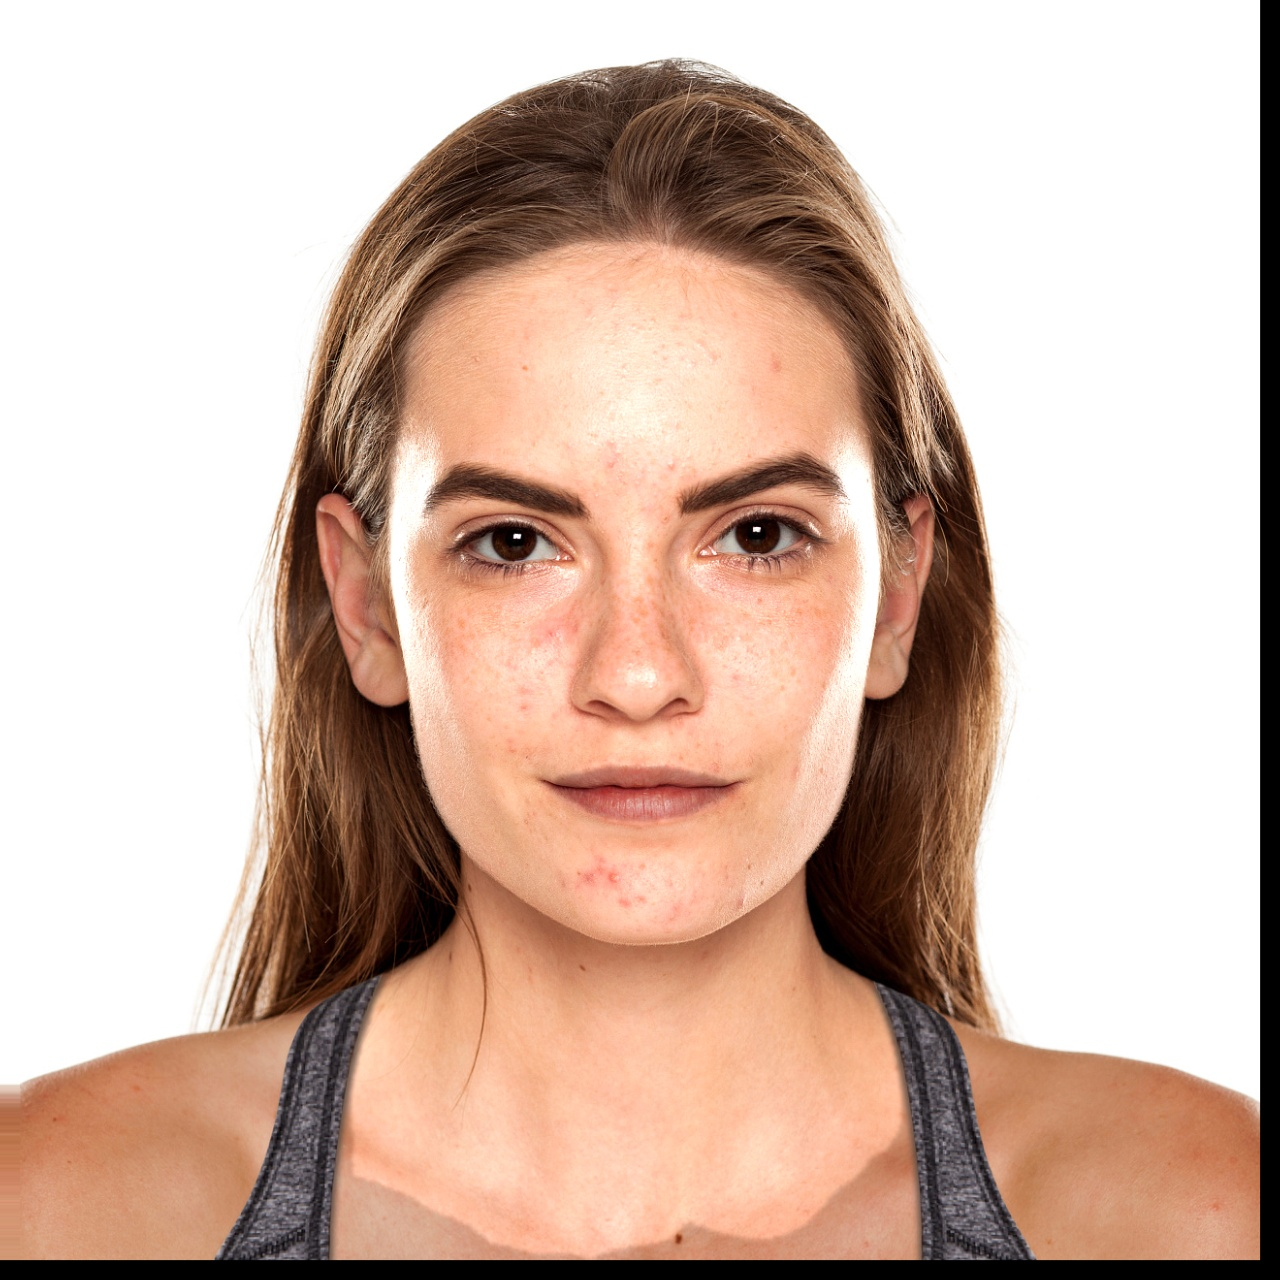
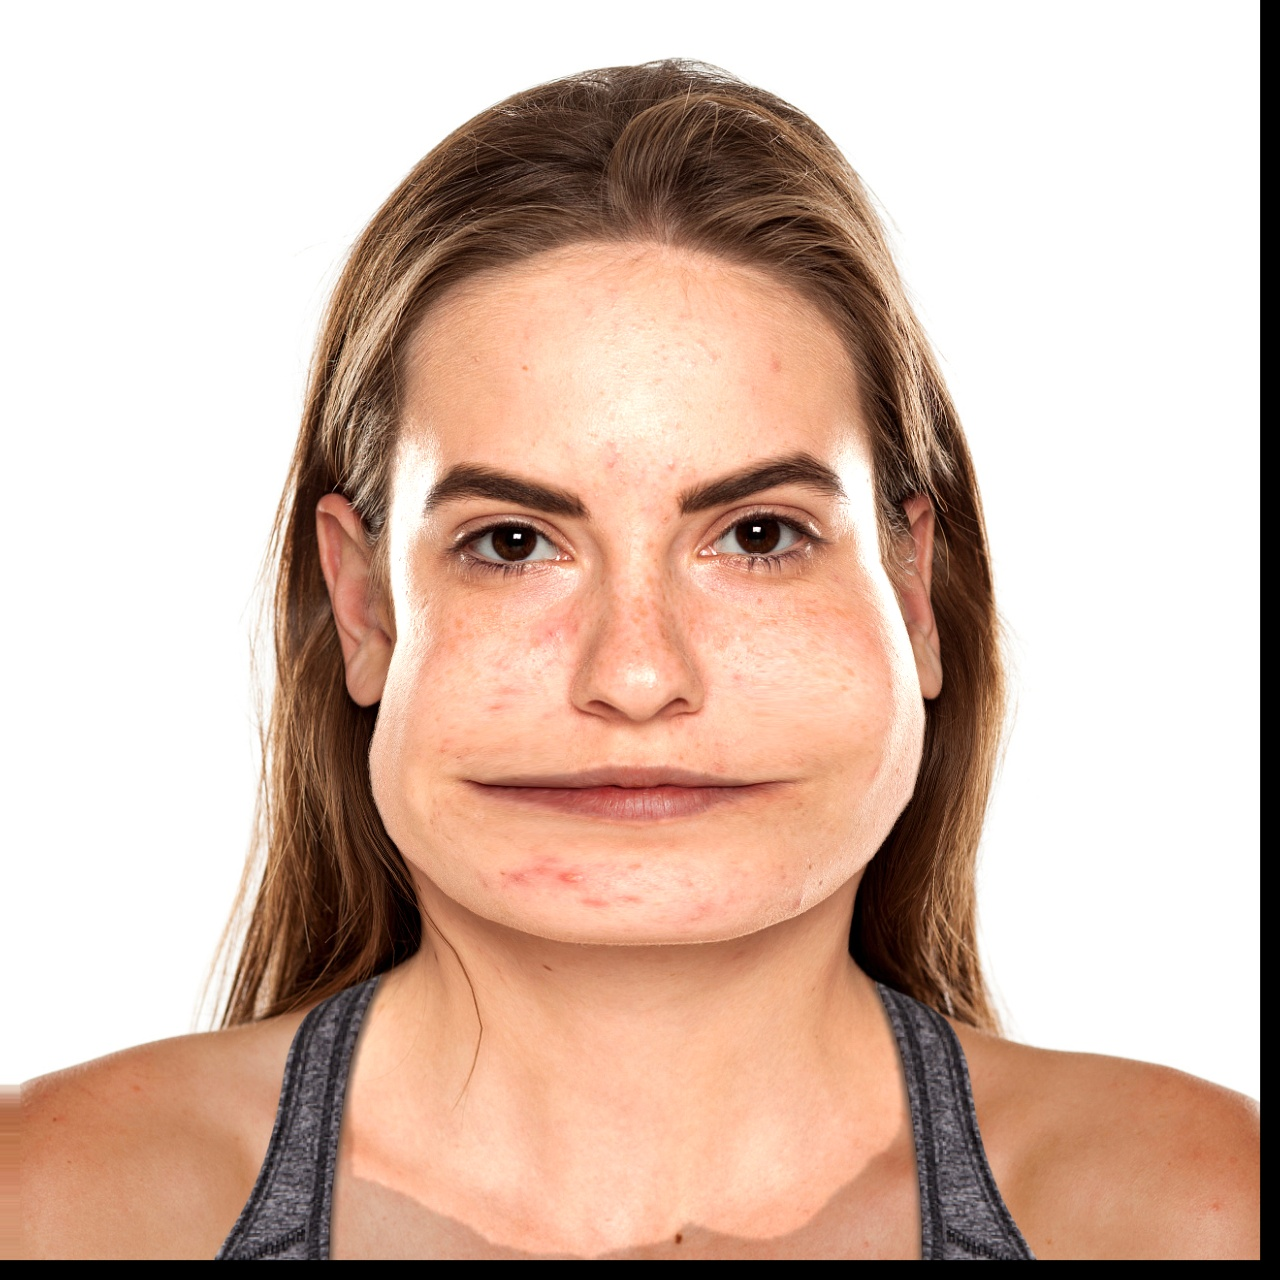
feat: implement Auto Slim Face and optimize detection/landmark precision

Changed region(s): [[0.5312, 0.4375, 0.8125, 0.7812], [0.2188, 0.4688, 0.5, 0.7812]]

diff --git a/person_beauty_plugin/src/AI/FaceLandmarkModel.cpp b/person_beauty_plugin/src/AI/FaceLandmarkModel.cpp
@@ -1,6 +1,6 @@
 #include "FaceLandmarkModel.h"
-#include <iostream>
 #include <cstring>
+#include <iostream>
 #include <opencv2/opencv.hpp>
 
 namespace PersonBeauty {
@@ -12,8 +12,8 @@ bool FaceLandmarkModel::load(const std::string &modelPath) {
   return engine_.loadModel(modelPath);
 }
 
-std::vector<Point2f> FaceLandmarkModel::getLandmarks(const ImageBuffer &input,
-                                                     const FaceBox &face) {
+std::vector<cv::Point2f>
+FaceLandmarkModel::getLandmarks(const ImageBuffer &input, const FaceBox &face) {
   if (!engine_.isLoaded())
     return {};
 
@@ -21,14 +21,14 @@ std::vector<Point2f> FaceLandmarkModel::getLandmarks(const ImageBuffer &input,
   cv::Mat img = input.getMat();
 
   // Pad the face box slightly to ensure landmarks are within context
-  float pad = 0.0f;
-  // PFLD is trained on tight crops usually, but some margin helps. Let's try
-  // tight first.
+  float margin = 0.2f; // 20% margin
+  float fw = face.x2 - face.x1;
+  float fh = face.y2 - face.y1;
 
-  int x1 = std::max(0, (int)face.x1);
-  int y1 = std::max(0, (int)face.y1);
-  int x2 = std::min(img.cols, (int)face.x2);
-  int y2 = std::min(img.rows, (int)face.y2);
+  int x1 = std::max(0, (int)(face.x1 - fw * margin));
+  int y1 = std::max(0, (int)(face.y1 - fh * margin));
+  int x2 = std::min(img.cols, (int)(face.x2 + fw * margin));
+  int y2 = std::min(img.rows, (int)(face.y2 + fh * margin));
 
   if (x2 <= x1 || y2 <= y1)
     return {};
@@ -41,17 +41,13 @@ std::vector<Point2f> FaceLandmarkModel::getLandmarks(const ImageBuffer &input,
 
   // 2. Preprocess
   // PFLD input: 112x112
-  // Normalization: (img / 255.0) -> [0, 1] ? Or specific mean/std?
-  // Common PFLD implementation uses standard normalization or just /255.
-  // We'll assume simple [0, 1] scaling or check if output looks weird.
-  // PFLD often expects RGB.
-
+  // Normalization: (x - 127.5) / 128.0
   cv::Mat resized;
   cv::resize(faceImg, resized, cv::Size(inputSize_, inputSize_));
   cv::cvtColor(resized, resized, cv::COLOR_BGR2RGB);
 
   cv::Mat floatImg;
-  resized.convertTo(floatImg, CV_32F, 1.0 / 255.0); // 0-1
+  resized.convertTo(floatImg, CV_32F, 1.0f / 128.0f, -127.5f / 128.0f);
 
   // HWC -> CHW
   std::vector<int64_t> inputDims = {1, 3, inputSize_, inputSize_};
@@ -69,35 +65,27 @@ std::vector<Point2f> FaceLandmarkModel::getLandmarks(const ImageBuffer &input,
 
   // 3. Inference
   std::vector<const char *> inputNames = {"input"};
-  // PFLD input name check needed? Standard usually "input".
-  // Try generic access if possible? No, ORT needs names.
-  // Most PFLD onnx exports use 'input'.
-
   std::vector<Ort::Value> inputTensors;
   inputTensors.push_back(Ort::Value::CreateTensor<float>(
       engine_.getMemoryInfo(), inputData.data(), inputData.size(),
-      inputDims.data(),
-      inputDims.size()));
+      inputDims.data(), inputDims.size()));
 
   std::vector<const char *> outputNames = {"output"};
-  // PFLD output name often "output" or "landmark".
-
   auto outputs = engine_.run(inputNames, inputTensors, outputNames);
   if (outputs.empty())
     return {};
 
   // 4. Decode
-  // Output: [1, 136] -> 68 points (x, y) normalized 0-1 (or -1 to 1?? PFLD
-  // usually 0-1)
+  // Output: [1, 136] -> 68 points (x, y) normalized 0-1
   float *landmarksPtr = outputs[0].GetTensorMutableData<float>();
 
-  std::vector<Point2f> points;
+  std::vector<cv::Point2f> points;
   for (int i = 0; i < 68; ++i) {
     float lx = landmarksPtr[i * 2];
     float ly = landmarksPtr[i * 2 + 1];
 
     // Map back to original image
-    Point2f p;
+    cv::Point2f p;
     p.x = x1 + lx * faceRect.width;
     p.y = y1 + ly * faceRect.height;
     points.push_back(p);

diff --git a/person_beauty_plugin/src/main.cpp b/person_beauty_plugin/src/main.cpp
@@ -1,10 +1,10 @@
+#include <chrono>
 #include <iostream>
 #include <memory>
 #include <opencv2/opencv.hpp>
 #include <string>
-#include <vector>
-#include <chrono>
 #include <thread>
+#include <vector>
 
 #include "AI/FaceDetector.h"
 #include "AI/FaceLandmarkModel.h"
@@ -83,7 +83,8 @@ int main() {
     std::cout << "      [语义分割] 正在生成人脸区域蒙版..." << std::endl;
     auto parsingResult = parsingModel.process(mainImage);
     if (!parsingResult) {
-      std::cerr << "      [警告] 语义分割结果为空，跳过皮肤蒙版生成。" << std::endl;
+      std::cerr << "      [警告] 语义分割结果为空，跳过皮肤蒙版生成。"
+                << std::endl;
     }
     if (parsingResult) {
       const cv::Mat &segMap = parsingResult->getMat();
@@ -98,7 +99,7 @@ int main() {
       // 使用向量化操作提取皮肤区域 (label: 1/10/14)，避免手写双重循环
       cv::Mat skinMaskBinary =
           (segResized == 1) | (segResized == 10) | (segResized == 14);
-      skinMaskBinary.convertTo(skinMask.getMat(), CV_8U, 255.0);
+      skinMaskBinary.convertTo(skinMask.getMat(), CV_8UC1, 255.0);
       std::cout << "      已生成皮肤蒙版。" << std::endl;
       cv::imwrite("../../test_mask_debug.png", skinMask.getMat());
     }
@@ -113,8 +114,18 @@ int main() {
   Processing::ColorEngine::adjust(mainImage, skinMask, 0.15f, 1.1f, 0.9f, 0.0f);
 
   // 5. 液化变形
-  std::cout << "[5/7] 执行液化变形（模拟）..." << std::endl;
+  std::cout << "[5/7] 执行液化变形 (自动瘦脸)..." << std::endl;
   Processing::LiquifyEngine liquify(width, height);
+  if (!faces.empty()) {
+    // 针对检测到的每一张人脸进行瘦脸
+    for (const auto &face : faces) {
+      auto pts = landmarkModel.getLandmarks(mainImage, face);
+      if (!pts.empty()) {
+        liquify.slimFace(pts, 0.45f); // 45% 瘦脸强度
+      }
+    }
+    std::cout << "      已应用自动瘦脸变形。" << std::endl;
+  }
   liquify.process(mainImage, mainImage);
 
   // 6. 保存结果

diff --git a/person_beauty_plugin/src/Processing/LiquifyEngine.cpp b/person_beauty_plugin/src/Processing/LiquifyEngine.cpp
@@ -104,5 +104,51 @@ void LiquifyEngine::process(const ImageBuffer &input, ImageBuffer &output) {
   cv::remap(input.getMat(), output.getMat(), mapX_, mapY_, cv::INTER_LINEAR);
 }
 
+void LiquifyEngine::slimFace(const std::vector<cv::Point2f> &landmarks,
+                             float strength) {
+  if (landmarks.size() < 68)
+    return;
+
+  // Indices for jawline: 0-16.
+  // We want to push the lower jaw points (roughly 3-7 and 9-13) towards the
+  // center.
+  std::vector<int> leftJaw = {3, 4, 5, 6, 7};
+  std::vector<int> rightJaw = {9, 10, 11, 12, 13};
+
+  // Estimate vertical midline from nose (27-30) and chin (8)
+  float midX = 0;
+  for (int i : {27, 28, 29, 30, 8}) {
+    midX += landmarks[i].x;
+  }
+  midX /= 5.0f;
+
+  float faceWidth = std::abs(landmarks[16].x - landmarks[0].x);
+  float radius = faceWidth * 0.25f; // Influence radius around each landmark
+  float r2 = radius * radius;
+
+  auto applySlim = [&](int idx, float dirSign) {
+    cv::Point2f target = landmarks[idx];
+    // Move towards midX
+    float shiftX = (midX - target.x) * strength * 0.5f;
+    cv::Point2f offset(shiftX, 0);
+
+    for (auto &pt : mesh_) {
+      float dist2 = (pt.x - target.x) * (pt.x - target.x) +
+                    (pt.y - target.y) * (pt.y - target.y);
+      if (dist2 < r2) {
+        float factor = (1.0f - dist2 / r2);
+        pt += offset * factor;
+      }
+    }
+  };
+
+  for (int i : leftJaw)
+    applySlim(i, 1.0f);
+  for (int i : rightJaw)
+    applySlim(i, -1.0f);
+
+  mapsDirty_ = true;
+}
+
 } // namespace Processing
 } // namespace PersonBeauty

diff --git a/person_beauty_plugin/src/AI/ParsingModel.cpp b/person_beauty_plugin/src/AI/ParsingModel.cpp
@@ -68,7 +68,6 @@ std::shared_ptr<ImageBuffer> ParsingModel::process(const ImageBuffer &input) {
   cv::Mat parsingMap(inputHeight_, inputWidth_, CV_8UC1);
 
   // Efficient ArgMax (this is slow in CPU loop, but standard for C++ demo)
-  int area = inputHeight_ * inputWidth_;
   for (int i = 0; i < area; ++i) {
     int maxClass = 0;
     float maxVal = floatOutput[i]; // Class 0
@@ -80,7 +79,7 @@ std::shared_ptr<ImageBuffer> ParsingModel::process(const ImageBuffer &input) {
         maxClass = c;
       }
     }
-    parsingMap.data[i] = static_cast<uchar>(maxClass);
+    parsingMap.data[i] = static_cast<unsigned char>(maxClass);
   }
 
   // Resize back to original size (Nearest Neighbor to keep class IDs)

diff --git a/person_beauty_plugin/src/AI/FaceDetector.cpp b/person_beauty_plugin/src/AI/FaceDetector.cpp
@@ -86,8 +86,7 @@ std::vector<FaceBox> FaceDetector::detect(const ImageBuffer &input) {
   std::vector<Ort::Value> inputTensors;
   inputTensors.push_back(Ort::Value::CreateTensor<float>(
       engine_.getMemoryInfo(), inputData.data(), inputData.size(),
-      inputDims.data(),
-      inputDims.size()));
+      inputDims.data(), inputDims.size()));
 
   std::vector<const char *> outputNames = {"scores", "boxes"};
 
@@ -147,7 +146,7 @@ std::vector<FaceBox> FaceDetector::detect(const ImageBuffer &input) {
   }
 
   std::vector<FaceBox> finalFaces;
-  nonMaximumSuppression(faces, finalFaces, 0.5f);
+  nonMaximumSuppression(faces, finalFaces, 0.3f);
 
   return finalFaces;
 }

diff --git a/person_beauty_plugin/src/AI/FaceLandmarkModel.h b/person_beauty_plugin/src/AI/FaceLandmarkModel.h
@@ -6,9 +6,7 @@
 namespace PersonBeauty {
 namespace AI {
 
-struct Point2f {
-  float x, y;
-};
+// landmark points are cv::Point2f
 
 class FaceLandmarkModel {
 public:
@@ -17,8 +15,8 @@ public:
 
   // Process input image and a face box to get landmarks
   // Returns 68 or 106 points depending on model
-  std::vector<Point2f> getLandmarks(const ImageBuffer &input,
-                                    const FaceBox &face);
+  std::vector<cv::Point2f> getLandmarks(const ImageBuffer &input,
+                                        const FaceBox &face);
 
 private:
   InferenceEngine engine_;

diff --git a/person_beauty_plugin/src/Processing/LiquifyEngine.h b/person_beauty_plugin/src/Processing/LiquifyEngine.h
@@ -26,6 +26,11 @@ public:
             float strength);
   void expand(float x, float y, float radius, float strength); // Bloat/Pinch
 
+  // Auto Slim Face using landmarks
+  // jawPoints: indices of landmarks forming the jawline (e.g. 0-16)
+  // centerPos: face center to pull towards
+  void slimFace(const std::vector<cv::Point2f> &landmarks, float strength);
+
   // Apply the current mesh warp to an image
   // Returns warped image
   void process(const ImageBuffer &input, ImageBuffer &output);
